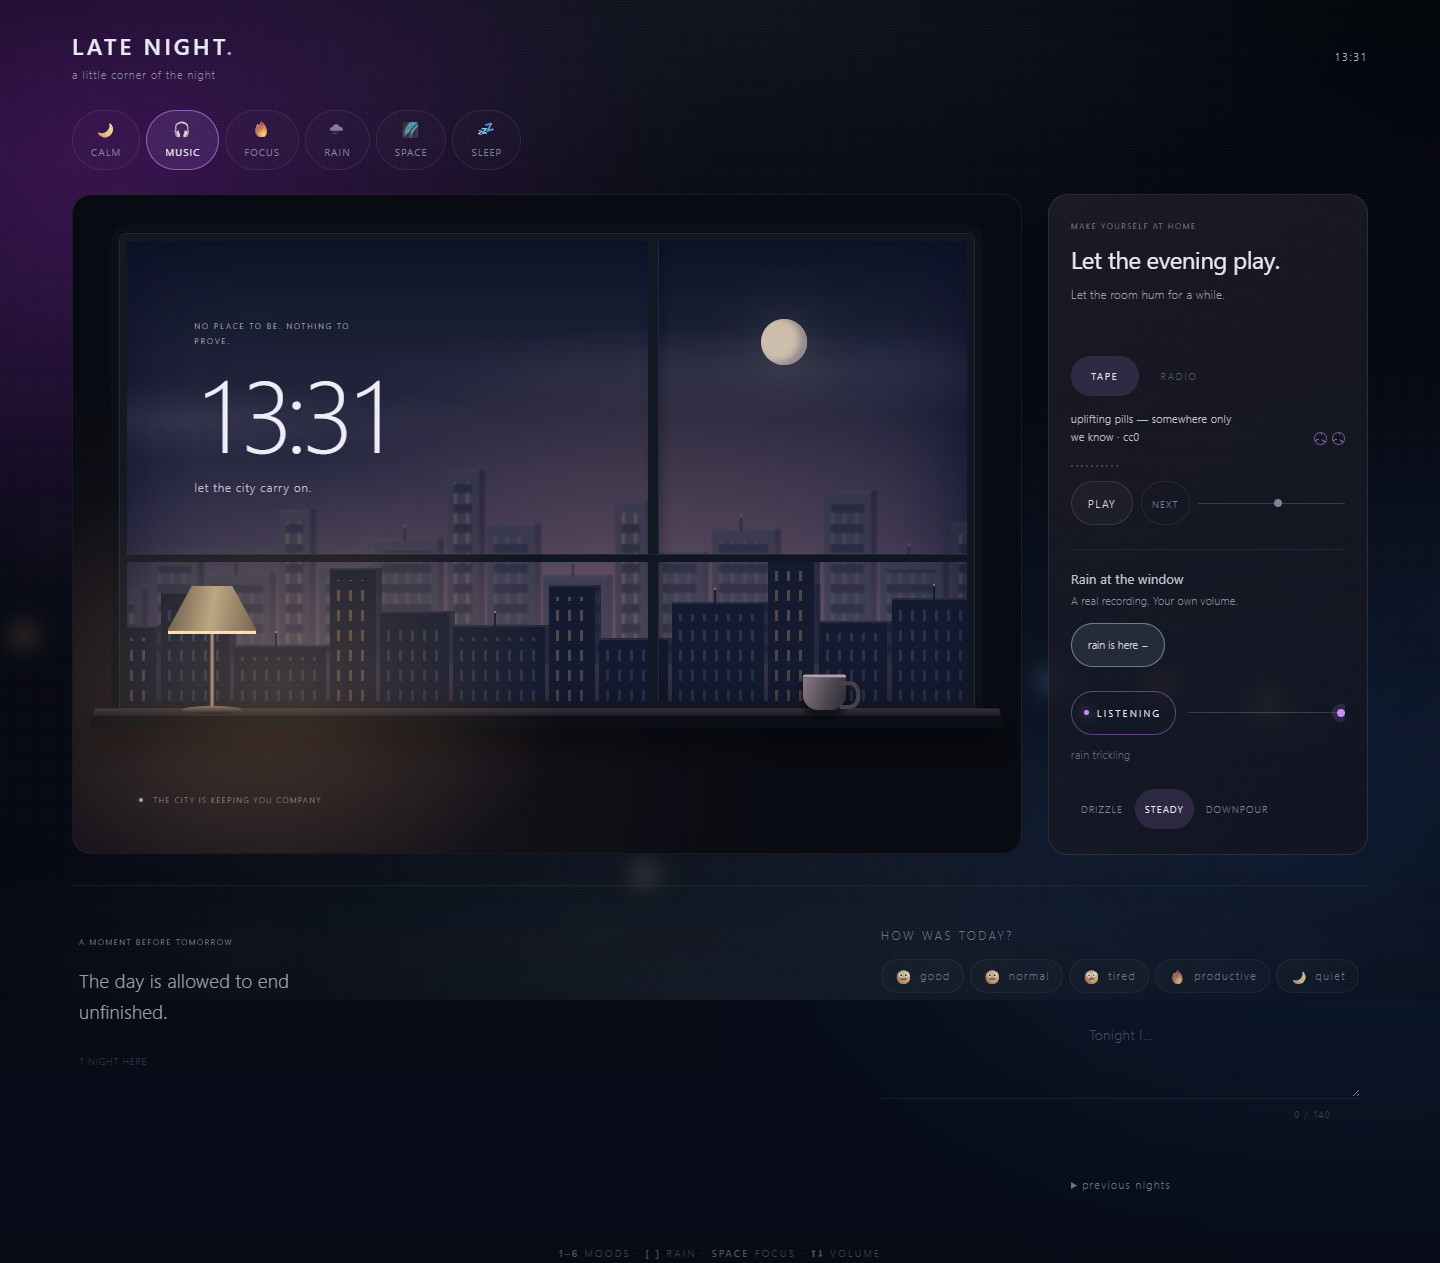
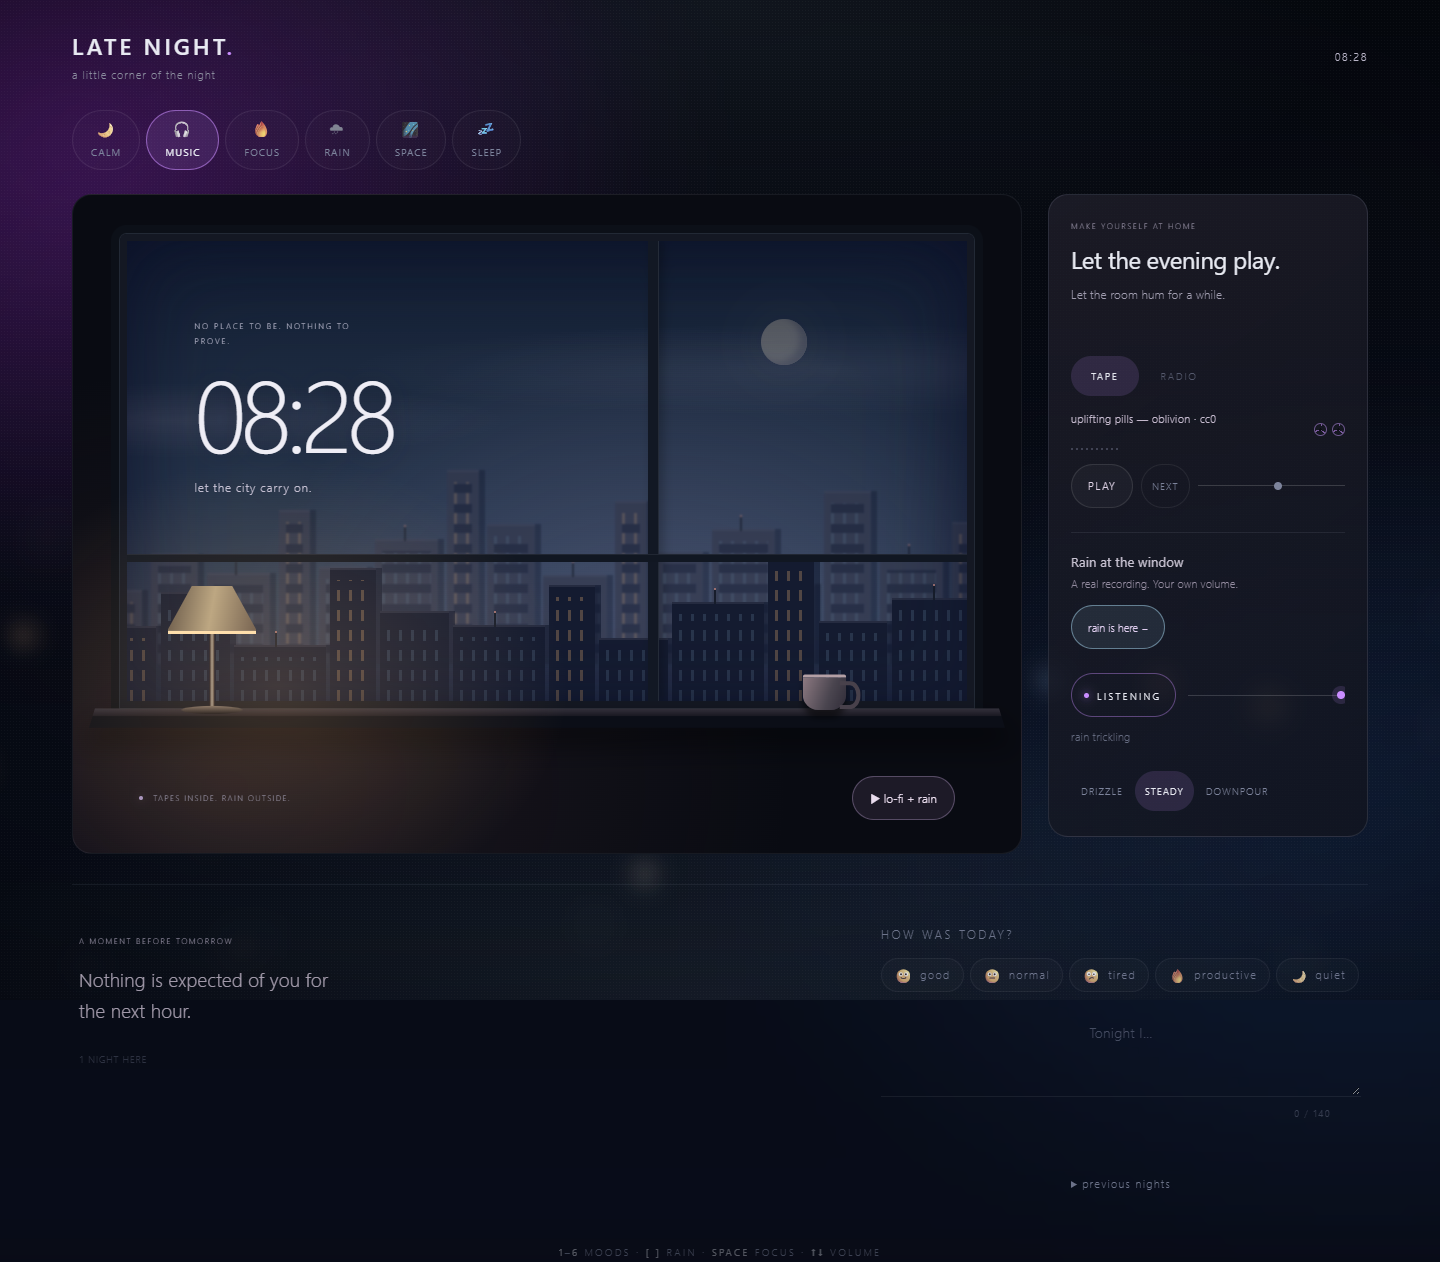
feat: start a rainy lo-fi evening directly from the window

diff --git a/style.css b/style.css
@@ -1967,3 +1967,43 @@ body[data-mood="music"] .room-desk .weather-mix { width: 100%; padding: 20px 0 0
 @media (prefers-reduced-motion: reduce) {
   .night-train, .window-cup > span { display: none; }
 }
+/* One gesture to settle in, without leaving the window. */
+.scene-footer { position: absolute; left: 7%; right: 7%; bottom: 5%; display: flex; align-items: center; justify-content: space-between; gap: 16px; z-index: 7; }
+.scene-footer .scene-signature { position: static; min-width: 0; max-width: 50%; }
+.evening-toggle { flex-shrink: 0; min-height: 44px; padding: 11px 17px; border: 1px solid #bba2d05c; border-radius: 999px; color: #e9dced; background: #67507836; font: inherit; font-size: 12px; cursor: pointer; transition: background .3s, border-color .3s; }
+.evening-toggle:hover { background: #83689b55; border-color: #d9c1ed99; }
+.evening-toggle[aria-pressed="true"] { background: #42394e55; color: #cebedc; }
+.evening-toggle:focus-visible { outline: 2px solid var(--accent); outline-offset: 4px; }
+@media (max-width: 1050px) {
+  .scene-footer { left: 6%; right: 6%; gap: 12px; }
+  .scene-footer .scene-signature { font-size: 7px; letter-spacing: .1em; }
+  .evening-toggle { padding: 10px 12px; font-size: 11px; }
+}
+@media (max-width: 400px) {
+  .scene-footer { left: 7%; right: 7%; bottom: 4%; }
+  .scene-footer .scene-signature { max-width: 42%; }
+  .scene-dot { display: none; }
+  .evening-toggle { font-size: 10px; padding: 10px; }
+}
+
+/* The same room takes on the chosen mood. */
+@property --sky-top { syntax: "<color>"; inherits: true; initial-value: #101729; }
+@property --sky-bottom { syntax: "<color>"; inherits: true; initial-value: #666078; }
+@property --horizon { syntax: "<color>"; inherits: true; initial-value: #d6958552; }
+body { transition: --glow-a 2s, --glow-b 2s, --accent 1.2s; }
+.window-view { transition: --sky-top 2s, --sky-bottom 2s, --horizon 2s; }
+body .window-outside { background: radial-gradient(ellipse at 63% 100%, var(--horizon), transparent 58%), linear-gradient(180deg, var(--sky-top), var(--sky-bottom)); }
+body[data-mood="space"] .window-outside, body[data-mood="aurora"] .window-outside { background: radial-gradient(ellipse at 30% 40%, var(--horizon), transparent 60%), linear-gradient(var(--sky-top), var(--sky-bottom)); }
+body[data-mood="calm"] .window-view { --sky-top: #142336; --sky-bottom: #43566d; --horizon: #7fa7b733; }
+body[data-mood="focus"] .window-view { --sky-top: #231a23; --sky-bottom: #6e4b48; --horizon: #d39b6e44; }
+body.has-rain .window-view { --sky-top: #111d31; --sky-bottom: #364760; --horizon: #9b95c144; }
+body[data-mood="space"] .window-view { --sky-top: #080a1f; --sky-bottom: #252048; --horizon: #633d7852; }
+body[data-mood="aurora"] .window-view { --sky-top: #0d1627; --sky-bottom: #274953; --horizon: #7cad9777; }
+body[data-mood="sleep"] .window-view { --sky-top: #0c1020; --sky-bottom: #272d45; --horizon: #63698c22; }
+.window-moon, .skyline, .night-train { transition: opacity 2s; }
+body.has-rain .window-moon { opacity: .28; }
+body[data-mood="space"] .skyline-near, body[data-mood="aurora"] .skyline-near { opacity: .18; }
+body[data-mood="space"] .skyline-far, body[data-mood="aurora"] .skyline-far { opacity: .08; }
+body[data-mood="space"] .night-train, body[data-mood="sleep"] .night-train { opacity: 0; }
+body[data-mood="sleep"] .skyline { opacity: .25; }
+body[data-mood="sleep"] .window-moon { opacity: .5; }

diff --git a/app.js b/app.js
@@ -38,6 +38,13 @@ function isRainScene(mood = document.body.dataset.mood) {
 function paintWeather() {
   document.body.classList.toggle("has-rain", isRainScene());
   document.getElementById("rain-dial").hidden = !isRainScene();
+  const mood = document.body.dataset.mood;
+  document.getElementById("scene-caption").textContent = mood === "music" && musicRainEnabled
+    ? "TAPES INSIDE. RAIN OUTSIDE."
+    : { calm: "A SOFTER LIGHT. A SLOWER NIGHT.", music: "THE CITY IS KEEPING YOU COMPANY",
+        focus: "JUST YOU AND ONE SMALL THING", rain: "NOWHERE ELSE YOU NEED TO BE",
+        space: "THE CITY FALLS AWAY", sleep: "THE LAST LIGHTS ARE GOING OUT",
+        aurora: "SOMETHING QUIETLY EXTRAORDINARY" }[mood];
   if (isRainScene()) startRain();
   else stopRain();
 }
@@ -1586,6 +1593,45 @@ deskLamp.addEventListener("click", () => {
   localStorage.setItem("lateNight.deskLamp", on ? "1" : "0");
 });
 
+/* One deliberate gesture starts both layers; nothing autoplays on first visit. */
+const eveningToggle = document.getElementById("evening-toggle");
+function eveningIsPlaying() {
+  return document.body.dataset.mood === "music" && station === "tape"
+    && tapeRunning && musicRainEnabled && listening;
+}
+function paintEveningToggle() {
+  const playing = eveningIsPlaying();
+  eveningToggle.hidden = document.body.dataset.mood === "music" && station === "radio";
+  eveningToggle.textContent = playing ? "Ⅱ pause the evening" : "▶ lo-fi + rain";
+  eveningToggle.setAttribute("aria-pressed", String(playing));
+  eveningToggle.setAttribute("aria-label", playing ? "Pause the tape and rain together" : "Play a lo-fi tape and real rain together");
+}
+eveningToggle.addEventListener("click", () => {
+  if (eveningIsPlaying()) {
+    setTape(false);
+    listening = false;
+    localStorage.setItem("lateNight.listen", "0");
+    stopAmbience();
+  } else {
+    musicRainEnabled = true;
+    listening = true;
+    localStorage.setItem("lateNight.musicRain", "1");
+    localStorage.setItem("lateNight.listen", "1");
+    paintMusicRain();
+    setStation("tape");
+    setMood("music");
+    if (!tapeRunning) setTape(true);
+  }
+  paintEveningToggle();
+});
+// Also follow individual controls, recording failures and keyboard mood changes.
+const eveningObserver = new MutationObserver(paintEveningToggle);
+eveningObserver.observe(document.body, { attributes: true, attributeFilter: ["data-mood", "data-station"] });
+eveningObserver.observe(player, { attributes: true, attributeFilter: ["class"] });
+eveningObserver.observe(listenButton, { attributes: true, attributeFilter: ["aria-pressed"] });
+eveningObserver.observe(musicRainButton, { attributes: true, attributeFilter: ["aria-pressed"] });
+paintEveningToggle();
+
 /* --- something left in the room for whoever pokes around --- */
 const SECRET_WORD = "moon";
 
@@ -1597,7 +1643,6 @@ if (localStorage.getItem("lateNight.aurora") === "1") {
 
 document.addEventListener("keydown", (e) => {
   if (e.metaKey || e.ctrlKey || e.altKey) return;
-  if (!windowView.hidden) return;
   if (/^(INPUT|TEXTAREA)$/.test(document.activeElement?.tagName || "")) return;
   if (e.key.length !== 1) return;
 

diff --git a/index.html b/index.html
@@ -58,7 +58,10 @@
     </button>
     <div class="window-cup" aria-hidden="true"><span></span><span></span><span></span></div>
 
-        <p class="scene-signature"><span class="scene-dot" aria-hidden="true"></span><span id="scene-caption">THE CITY IS KEEPING YOU COMPANY</span></p>
+        <div class="scene-footer">
+          <p class="scene-signature"><span class="scene-dot" aria-hidden="true"></span><span id="scene-caption">THE CITY IS KEEPING YOU COMPANY</span></p>
+          <button class="evening-toggle" id="evening-toggle" type="button" aria-pressed="false" aria-label="Play a lo-fi tape and real rain together"><span aria-hidden="true">▶</span> lo-fi + rain</button>
+        </div>
       </section>
 
       <aside class="room-desk" aria-label="In your room">

diff --git a/ROADMAP.md b/ROADMAP.md
@@ -4,7 +4,24 @@ Not a plan, more of a direction. One small thing per evening.
 
 Six moods, each eventually with its own life. The Rain and Music ones get the most love —
 rain on the glass and a lo-fi hum are the nicest things to sit inside — but they stay
-two rooms out of six, not the whole house.
+two atmospheres in one shared room.
+
+## The next eight weeks
+
+Each evening starts with the current room and recent commits. Choose one complete,
+visible improvement or a worthwhile repair; this direction can change as the room grows.
+
+- Week 1: settle into the unified room — window controls, small screens, readable audio states.
+- Week 2: life beyond the glass — rooftops, occasional lit windows, distant traffic and weather details.
+- Week 3: a better listening evening — curated tapes, favourites, clear source credits and resilient streams.
+- Week 4: objects on the desk — light settings, tea rituals and occasional subtle interactions.
+- Week 5: each mood gets its own character — stars, soft sleep lighting, breathing and focus details.
+- Week 6: evenings remembered — journal browsing, gentle local traces and useful personal preferences.
+- Week 7: smoother everyday use — keyboard navigation, touch controls, reduced motion and performance.
+- Week 8: revisit the whole room — visual coherence, sound balance, documentation and a rare secret.
+
+Keep the stack small. Ship two or three meaningful commits for a completed session;
+avoid changes whose only purpose is filling a day.
 
 ## Foundations
 - [x] night screen, live clock, typography
@@ -68,6 +85,8 @@ two rooms out of six, not the whole house.
 - [x] the window seat: illustrated night city, live clock, rain and passing train
 - [x] interactive desk lamp, warm room light and a steaming cup
 - [x] one continuous room: window, mood controls, audio and journal on the same page
+- [x] start and pause a lo-fi tape with real rain directly at the window
+- [x] the same sky changes warmth, light and city visibility with the chosen mood
 - [x] visible official radio, accessible inactive panels and responsive desk layout
 - [ ] another view from the window: rooftops, mountains or the last café open
 - polish, animation, micro-interactions

diff --git a/README.md b/README.md
@@ -20,6 +20,12 @@ New visitors arrive in Music; audio starts only after a user action or browser p
 The journal and previous nights are just below the room. The official Lofi Girl
 player stays on the desk while you change the rain or the lamp.
 
+Press **lo-fi + rain** at the window to start a tape and real rain together.
+The same button pauses both. Individual controls still adjust each layer, and
+your volume settings are preserved. In Radio, use the official player's controls.
+The room's sky follows your mood: warmer for Focus, cooler with Rain, quieter
+for Sleep, with the city fading into the stars in Space.
+
 ## Right now
 
 - a slow night screen with a live clock
